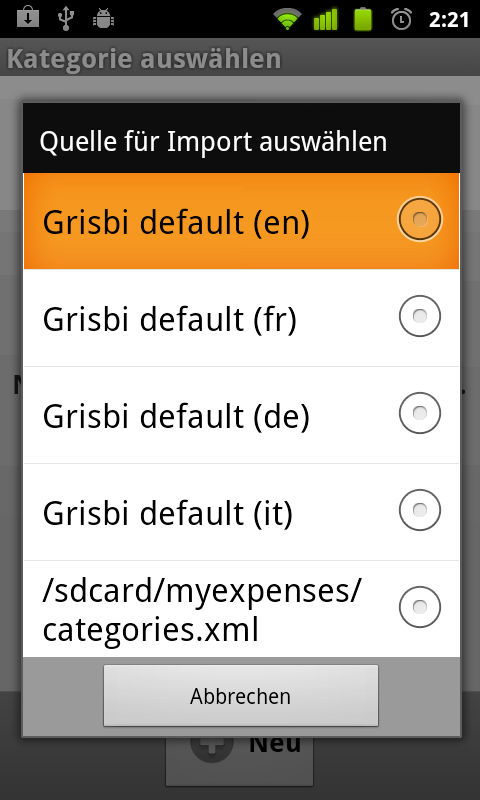
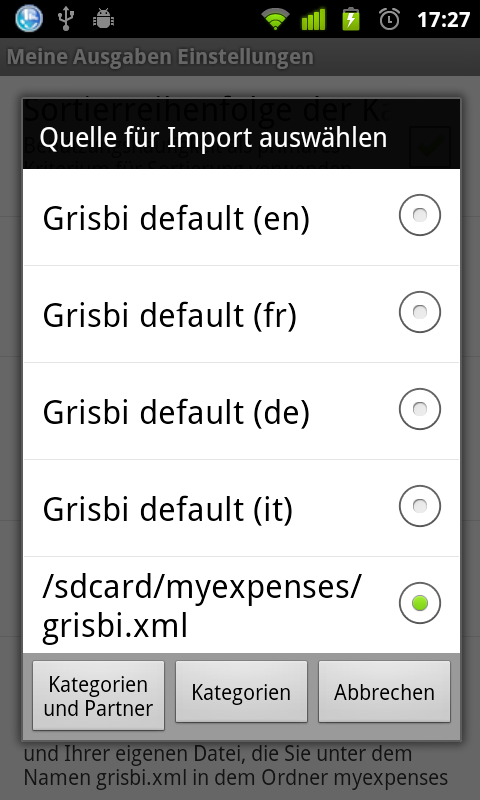
generated from SHA: 2658e8e

diff --git a/tutorial_r2/en/tutorial5.html b/tutorial_r2/en/tutorial5.html
@@ -42,13 +42,10 @@
       long click opens up a menu with shortcuts to the configuration of the current
       account (<span class="guimenuitem">Current account</span>) and to the backup
       (<span class="guimenuitem">Backup</span>).
-    </p><div class="sect2" title="Managing accounts"><div class="titlepage"><div><div><h3 class="title"><a name="tutorial5_1"></a>
-      <span lang="en">Managing accounts</span>
-      
-      
-      
-      </h3></div></div></div><p lang="en">
-        Choosing the <span class="guilabel">Accounts</span> entry opens up the <span class="guilabel"></span> screen, where you see the complete account list. Clicking
+    </p><div class="sect2" title="Sort order for categories"><div class="titlepage"><div><div><h3 class="title"><a name="tutorial5_1"></a>
+       <span class="guilabel">Sort order for categories</span>
+    </h3></div></div></div><p lang="en">
+        Herr you see the complete account list. Clicking
         on an item, opens up the configuration form (explained in <a class="link" href="tutorial1.html" title="Accounts">
       <span lang="en">Accounts</span>
       
@@ -86,12 +83,19 @@
     </p></div><div class="sect2" title="Import from Grisbi"><div class="titlepage"><div><div><h3 class="title"><a name="tutorial5_5"></a>
         <span class="guilabel">Import from Grisbi</span>
       </h3></div></div></div><p lang="en">
-    	    This entry allows to set up categories from files
+    	This entry allows to set up categories from files
 	    included from Grisbi in English, German or French. If with Grisbi you have already
 	    defined your own categories, you can also provide your Grisbi file, which is in XML.
 	    If you want, you can edit the file with an editor and remove any information other
-	    than the Category and Sub_category elements<sup>[<a name="ftn-en-1" href="#ftn.ftn-en-1" class="footnote">1</a>]</sup>. Store this file as <code class="filename">categories.xml</code> in a folder
-	    <code class="filename">myexpenses</code> in the root of your sdcard.
+	    than the <code class="sgmltag-element">Category</code> and <code class="sgmltag-element">Sub_category</code> elements<sup>[<a name="ftn55-en-1" href="#ftn.ftn55-en-1" class="footnote">2</a>]</sup>. Store this file as <code class="filename"></code> in a folder
+	    <code class="filename">myexpenses</code> in the root of your sdcard. Since version
+	    1.4.9, you can also import the parties (payers and payees) stored in this
+	    file (element <code class="sgmltag-element">Party</code>). When you choose your custom file as import source, you can
+	    decide to import both parties and categories, or only categories.
+	    Partners will be used for the autocomplete function of the payer/payee
+	    field in the transaction form.
+    </p><p><a name="step6"></a>
+      </p><div class="screenshot"><div><img src="step6.png"></div></div><p>
     </p></div><div class="sect2" title="Use standard Android menu"><div class="titlepage"><div><div><h3 class="title"><a name="tutorial5_6"></a>
         <span class="guilabel">Use standard Android menu</span>
       </h3></div></div></div><p lang="en">
@@ -99,7 +103,13 @@
       transaction list for accessing commands instead of displaying a button
       bar. You will be offered to activate the menu based interface when
       clicking on the hardware menu button.
-    </p></div><div class="footnotes"><br><hr width="100" align="left"><div class="footnote"><p><sup>[<a name="ftn.ftn-en-1" href="#ftn-en-1" class="para">1</a>] </sup>
+    </p></div><div class="sect2" title="Manage parties"><div class="titlepage"><div><div><h3 class="title"><a name="tutorial5_7"></a>
+        <span class="guilabel">Manage parties</span>
+      </h3></div></div></div><p lang="en">
+      This screen lists the parties used for the autocompletion of the <span class="guilabel">Payer</span>/<span class="guilabel">Payee</span> field. You can remove entries from
+      this list, by checking the checkbox on their right side, and then clicking
+      on the <span class="guibutton">Delete</span> button.
+    </p></div><div class="footnotes"><br><hr width="100" align="left"><div class="footnote"><p><sup>[<a name="ftn.ftn55-en-1" href="#ftn55-en-1" class="para">2</a>] </sup>
 	        <span class="application">My Expenses</span> also support the Grisbi file format 0.5.0,
-	        where the elements are named Categorie and Sous_categorie.
+	        where the elements are named <code class="sgmltag-element">Categorie</code> and <code class="sgmltag-element">Sous_categorie</code> (<code class="sgmltag-element">Tiers</code> for parties).
 	      </p></div></div></div></body></html>

diff --git a/tutorial_r2/en/tutorial2.html b/tutorial_r2/en/tutorial2.html
@@ -40,7 +40,8 @@
       </p><div class="screenshot"><div><img src="step3.png"></div></div><p>
     </p><p lang="en">
       Adjust date and time, click on the <span class="guibutton">-</span> Button to toggle between
-      expense and income, enter amount, notes and payee (or payer). Clicking on the
+      expense and income, enter amount and notes. The payee (or payer) field remembers the values
+      you enter and will suggest them in the future<sup>[<a name="ftn22-en-1" href="#ftn.ftn22-en-1" class="footnote">1</a>]</sup>. Clicking on the
       <span class="guibutton">Select</span> button, brings up the <span class="guilabel">Select category</span>
       activity. We will explain below, how to manage categories.
     </p><p lang="en">
@@ -58,4 +59,7 @@
         <span class="guimenu">New</span> &#8594; <span class="guimenuitem">Transfer</span> allows you to transfer money between
         accounts. This command is enabled only if you have more than one account with
         the same currency as the current one.
-      </p></div></div></body></html>
+      </p></div><div class="footnotes"><br><hr width="100" align="left"><div class="footnote"><p><sup>[<a name="ftn.ftn22-en-1" href="#ftn22-en-1" class="para">1</a>] </sup>You can also import a list of parties for autocompleting the payee
+      field from your Grisbi file as explained in <a class="link" href="tutorial5.html#tutorial5_5" title="Import from Grisbi"><span class="guilabel">Import from Grisbi</span></a>. If you want to delete
+      entries from this list refer to <a class="link" href="tutorial5.html#tutorial5_7" title="Manage parties"><span class="guilabel">Manage parties</span></a>.
+      </p></div></div></div></body></html>

diff --git a/tutorial_r2/en/tutorial3.html b/tutorial_r2/en/tutorial3.html
@@ -43,9 +43,7 @@
       <span class="guilabel">Import from Grisbi</span></a>. This button is visible, only as
       long the categories list is stil empty, later you can always access the import
       functionality from the <span class="guilabel">Settings</span> activity.
-      </p><p><a name="step6"></a>
-      </p><div class="screenshot"><div><img src="step6.png"></div></div><p>
-    </p><p lang="en">
+      </p><p lang="en">
 	    You now have a set up categories with subcategories you can associate with your
 	    transactions. By default, the primary sort criteria in the category list is the
 	    number of times you use a category (the secondary criteria is alphabetical order).
